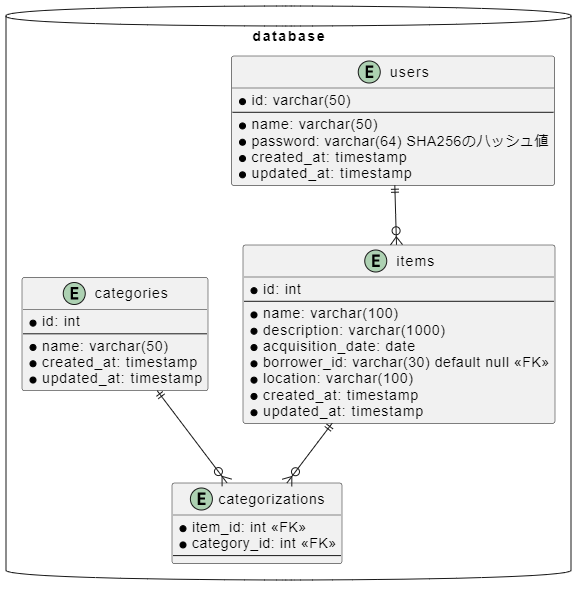
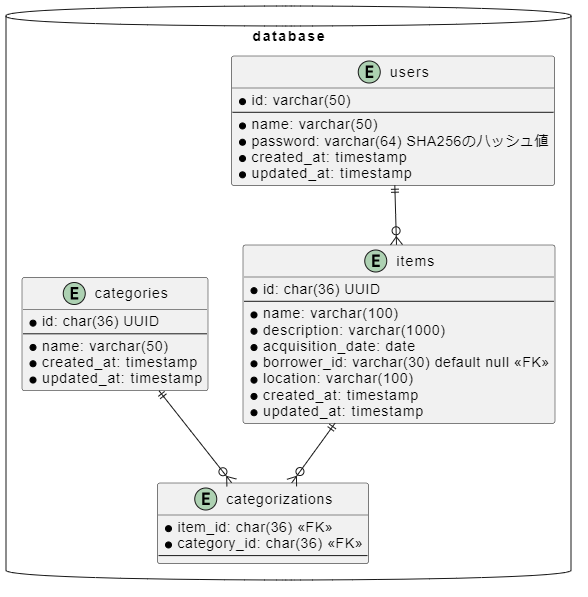
各種idをint -> uuidに

diff --git a/docs/spec.md b/docs/spec.md
@@ -4,7 +4,7 @@ ims(物品管理システム)の仕様
 
 ## ユースケース
 
-- サインイン
+- サインイン・サインアウト
 - 物品カテゴリーの管理
 - 物品の管理
 - 物品を借りる、返却する
